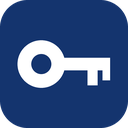
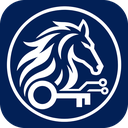
새 로고 적용, 비밀번호 저장 안내와 사진 추가
- 로고를 README 머리말과 확장 프로그램 아이콘, 프로모션 타일에 적용
- 처음 로그인할 때 비밀번호를 저장하고 확인하는 방법을 사진과 함께 안내
- 스토어용 캡처화면(계정을 받지 못했을 때) 추가

diff --git a/README.md b/README.md
@@ -1,6 +1,6 @@
 <div align="center">
 
-<img src="icons/icon128.png" width="96" alt="MJU Auto Login 아이콘">
+<img src="docs/images/logo.png" width="140" alt="MJU Auto Login 로고">
 
 # MJU Auto Login
 
@@ -22,7 +22,16 @@ MJU Auto Login은 명지대학교 LMS, MSI 등 통합로그인(SSO)을 사용하
 
 이 확장 프로그램은 크롬 비밀번호 관리자에 저장된 계정을 받아서 로그인합니다. 따라서 설치에 앞서 크롬에 계정이 저장되어 있어야 하고, 크롬이 그 계정을 확장 프로그램에 넘겨줄 수 있도록 설정되어 있어야 합니다.
 
-먼저 [명지대 통합로그인](https://sso.mju.ac.kr)에서 한 번 직접 로그인하고, 크롬이 비밀번호 저장 여부를 물으면 저장합니다. 이 사이트에 저장된 계정이 둘 이상이면 크롬이 어느 계정을 넘겨줄지 결정할 수 없으므로, 계정은 하나만 저장되어 있어야 합니다.
+먼저 [명지대 통합로그인](https://sso.mju.ac.kr)에서 한 번 직접 로그인합니다. 로그인하면 크롬이 비밀번호를 저장할지 묻는데, 이때 반드시 **저장**을 눌러야 합니다. 이 창을 닫거나 "사용하지 않음"을 누르면 확장 프로그램이 받아 올 계정이 없어 자동 로그인이 동작하지 않습니다.
+
+<img src="docs/images/save-password-prompt.png" width="420" alt="처음 로그인할 때 크롬이 비밀번호 저장을 묻는 창에서 저장 버튼을 누른다">
+
+저장이 되었는지는 `chrome://password-manager/passwords`에서 `mju`로 검색해 확인할 수 있습니다. 목록에 `mju.ac.kr` 항목이 있고, 그 항목을 열었을 때 사이트 목록에 `sso.mju.ac.kr`이 포함되어 있으면 됩니다. 이 사이트에 저장된 계정이 둘 이상이면 크롬이 어느 계정을 넘겨줄지 결정할 수 없으므로, 계정은 하나만 저장되어 있어야 합니다.
+
+<p>
+<img src="docs/images/saved-password-list.png" width="49%" alt="비밀번호 관리자에서 mju로 검색하면 mju.ac.kr 항목이 보인다">
+<img src="docs/images/saved-password-detail.png" width="49%" alt="mju.ac.kr 항목의 사이트 목록에 sso.mju.ac.kr이 포함되어 있다">
+</p>
 
 다음으로 `chrome://password-manager/settings`에서 두 가지 설정을 확인합니다. **자동으로 로그인**은 켜져 있어야 하고, **비밀번호 입력 시 화면 잠금 사용**은 꺼져 있어야 합니다. 화면 잠금이 켜져 있으면 크롬은 지문 인증 없이는 저장된 비밀번호를 내주지 않으므로 자동 로그인이 동작하지 않습니다.
 
